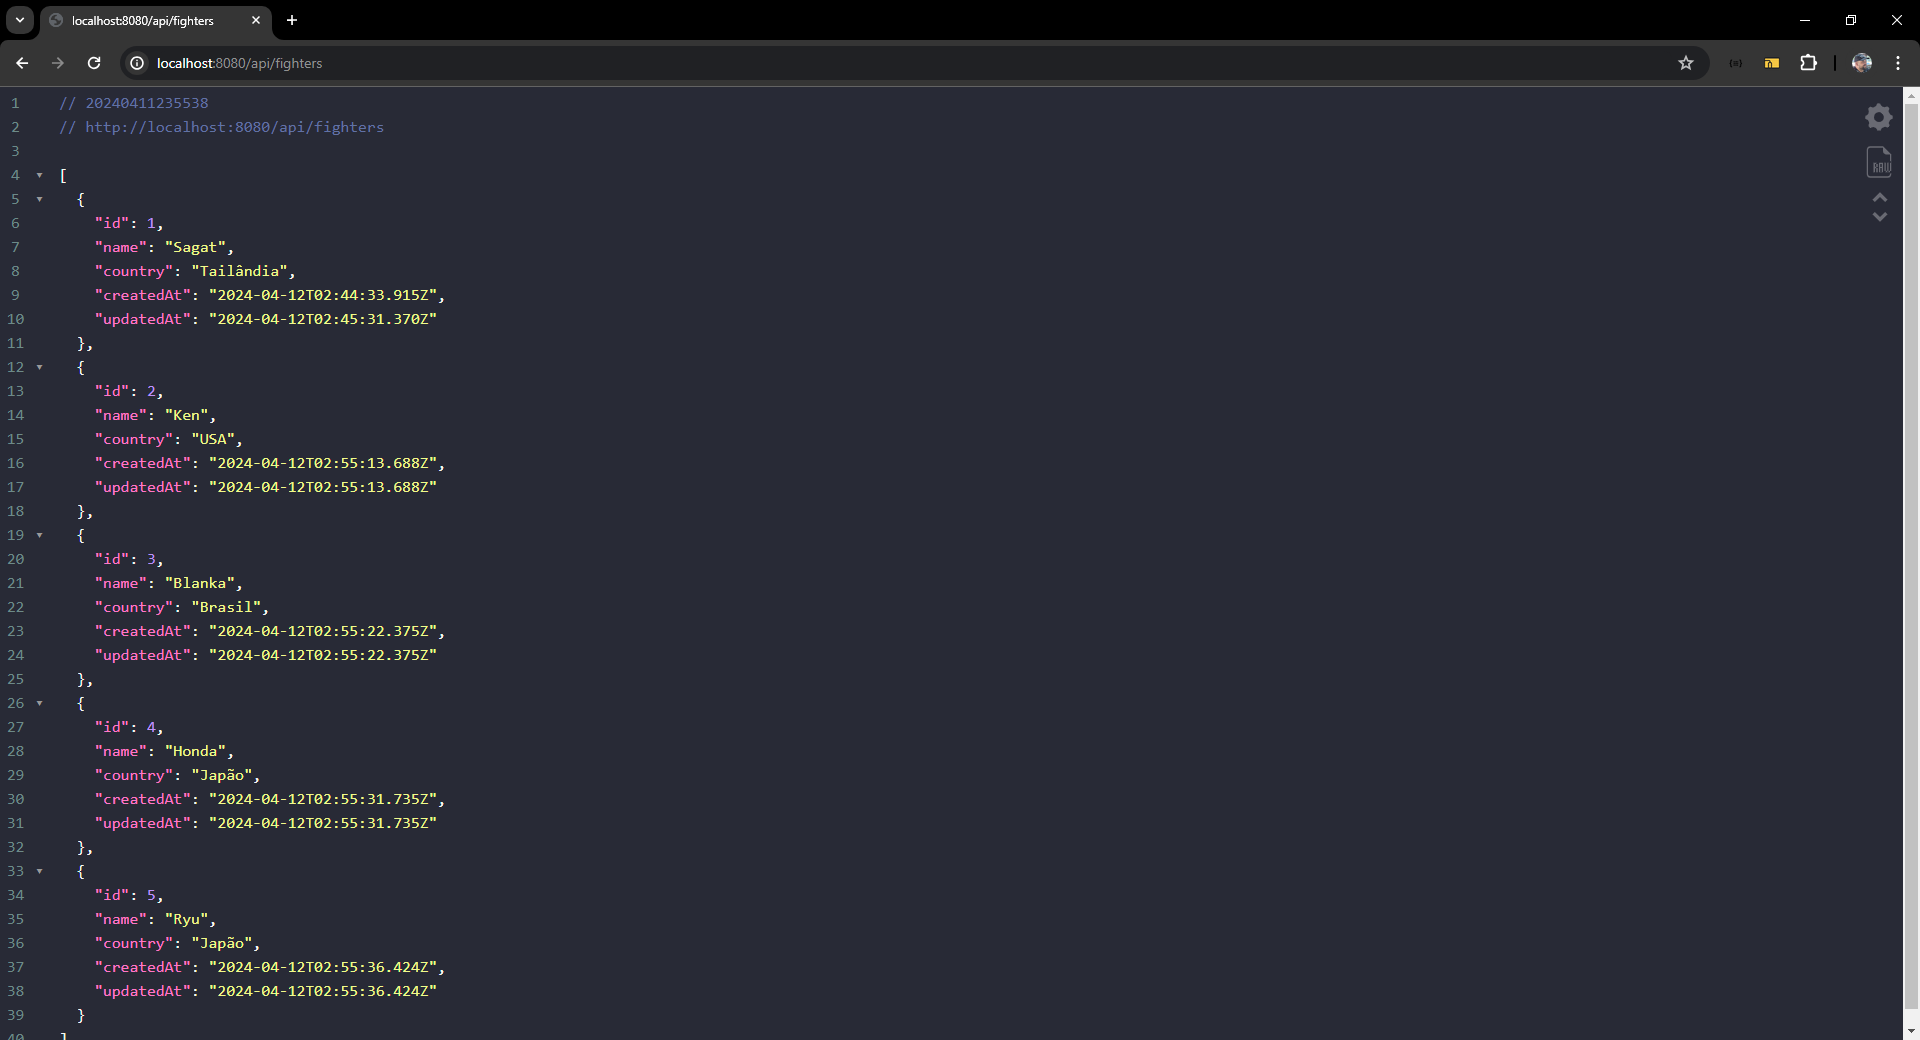
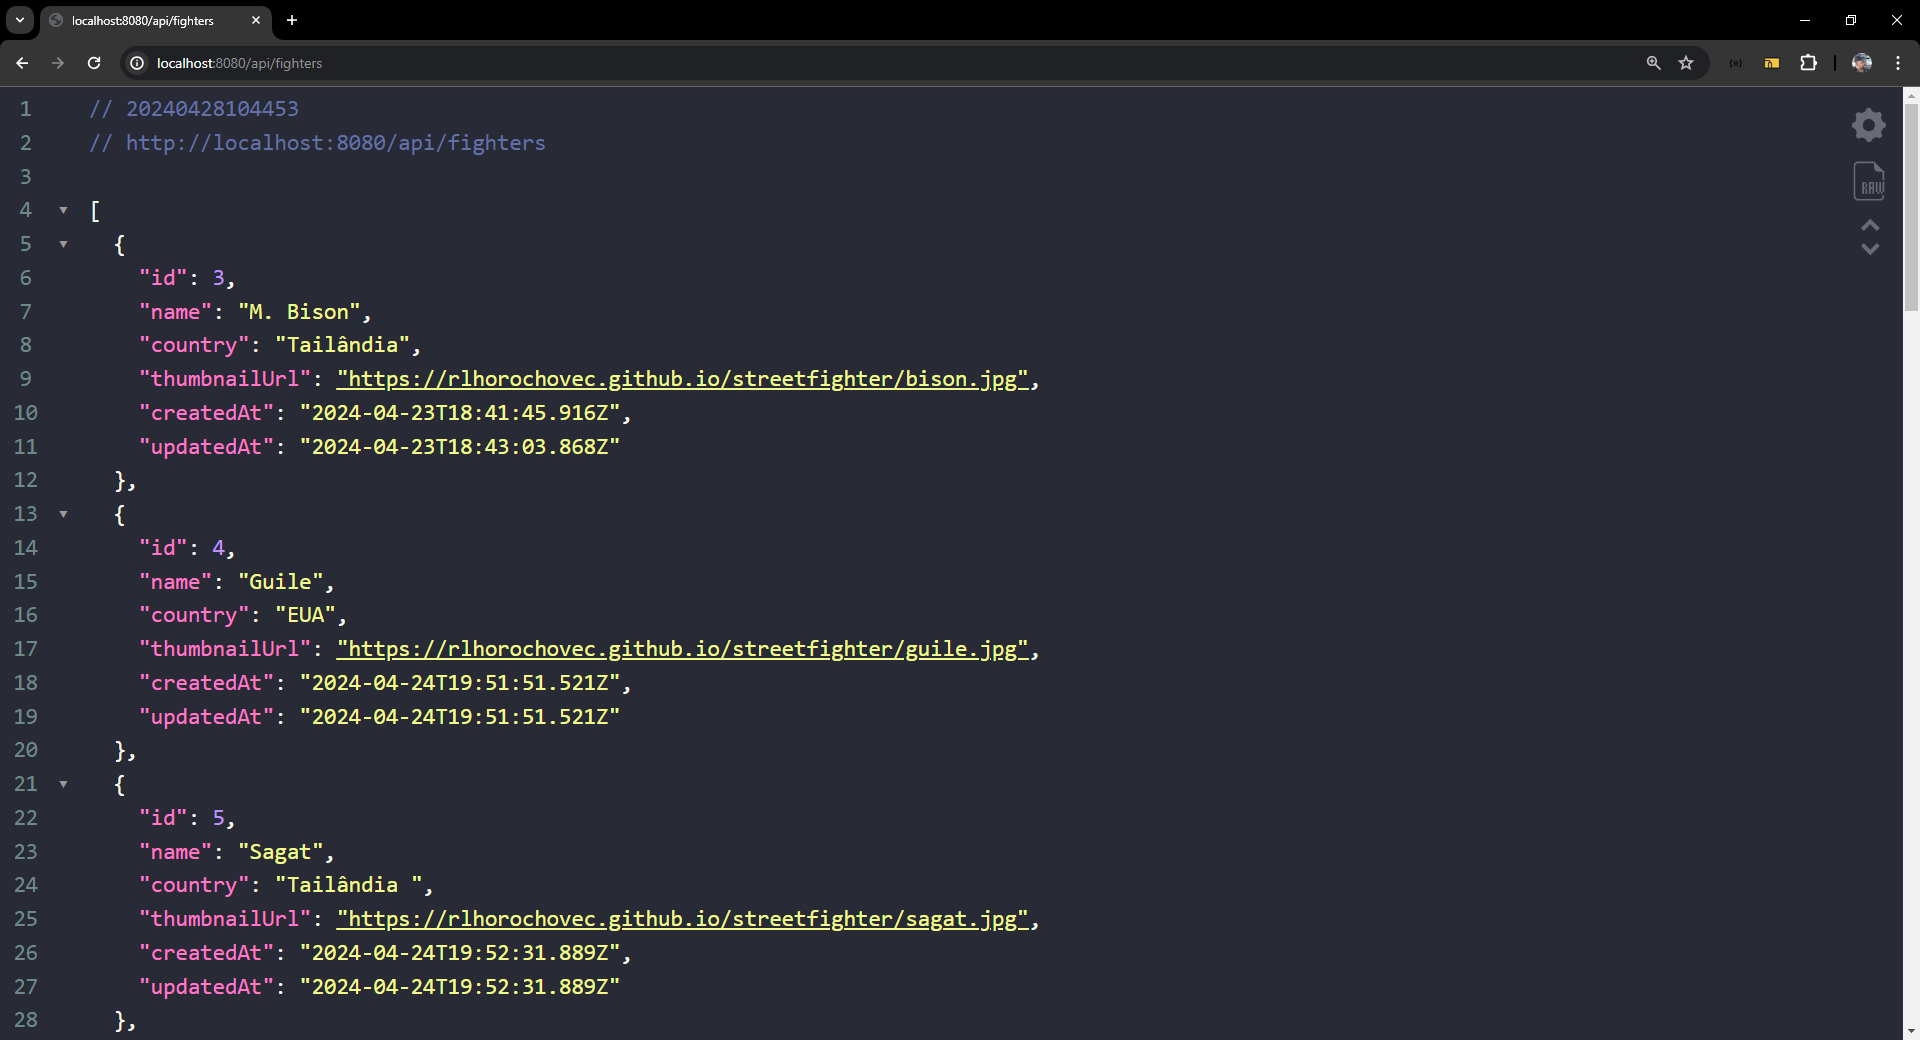
Alterando mensagens e README

diff --git a/controllers/fighter.controller.js b/controllers/fighter.controller.js
@@ -7,7 +7,7 @@ exports.create = (req, res) => {
     // Validate request
     if (!req.body.name) {
         res.status(400).send({
-            message: "O conteúdo não pode estar vazio!"
+            message: "Body cannot be empty!"
         });
         return;
     }
@@ -27,7 +27,7 @@ exports.create = (req, res) => {
         .catch(err => {
             res.status(500).send({
                 message:
-                    err.message || "Ocorreu um erro ao salvar o lutador."
+                    err.message || "An error occurred while saving the record."
             });
         });
 };
@@ -44,7 +44,7 @@ exports.findAll = (req, res) => {
         .catch(err => {
             res.status(500).send({
                 message:
-                    err.message || "Ocorreu um erro ao recuperar os lutadores."
+                    err.message || "An error occurred while retrieving records."
             });
         });
 };
@@ -59,7 +59,7 @@ exports.findOne = (req, res) => {
         })
         .catch(err => {
             res.status(500).send({
-                message: `Erro ao recuperar o lutador com o id = ${id}`
+                message: `Error retrieving record with id = ${id}`
             });
         });
 };
@@ -74,17 +74,17 @@ exports.update = (req, res) => {
         .then(num => {
             if (num == 1) {
                 res.send({
-                    message: "Lutador atualizado com sucesso."
+                    message: "Registration updated successfully."
                 });
             } else {
                 res.send({
-                    message: `Não é possível atualizar o lutador com id = ${id}. Talvez o lutador não tenha sido encontrado ou req.body esteja vazio!`
+                    message: `Cannot update record with id = ${id}. Maybe the record was not found or req.body is empty!`
                 });
             }
         })
         .catch(err => {
             res.status(500).send({
-                message: `Erro ao atualizar o lutador com o id = ${id}`
+                message: `Error updating record with id = ${id}`
             });
         });
 };
@@ -99,17 +99,17 @@ exports.delete = (req, res) => {
         .then(num => {
             if (num == 1) {
                 res.send({
-                    message: "Lutador removido com sucesso."
+                    message: "Registration successfully removed."
                 });
             } else {
                 res.send({
-                    message: `Não é possível remover o lutador com id = ${id}. Talvez o lutador não tenha sido encontrado!`
+                    message: `Cannot remove record with id = ${id}. Perhaps the record was not found!`
                 });
             }
         })
         .catch(err => {
             res.status(500).send({
-                message: `Erro ao remover o lutador com o id = ${id}`
+                message: `Error removing record with id = ${id}`
             });
         });
 };
@@ -121,12 +121,12 @@ exports.deleteAll = (req, res) => {
         truncate: false
     })
         .then(nums => {
-            res.send({ message: `${nums} lutadores foram removidos com sucesso.` });
+            res.send({ message: `${nums} records were successfully removed.` });
         })
         .catch(err => {
             res.status(500).send({
                 message:
-                    err.message || "Ocorreu um erro ao remover todos os lutadores."
+                    err.message || "An error occurred while removing all records."
             });
         });
 };

diff --git a/README.md b/README.md
@@ -29,6 +29,7 @@ http://localhost:8080/api/fighters
 | :---------- | :--------- | :------------------------------------------ |
 | `name`      | `string` | **Obrigatório**. O nome do lutador que você quer |
 | `country` | `string` | **Obrigatório**. A nacionalidade do lutador que você quer |
+| `thumbnailUrl` | `string` | **Obrigatório**. A URL da imagem do lutador que você quer |
 
 #### Retorna todos os lutadores
 
@@ -68,6 +69,7 @@ http://localhost:8080/api/fighters
 | `id`      | `integer` | **Obrigatório**. O ID do lutador que você quer |
 | `name`      | `string` | **Obrigatório**. O nome do lutador que você quer |
 | `country` | `string` | **Obrigatório**. A nacionalidade do lutador que você quer |
+| `thumbnailUrl` | `string` | **Obrigatório**. A URL da imagem do lutador que você quer |
 
 #### Remove um lutador
 
